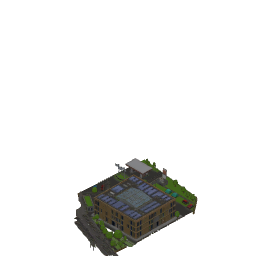
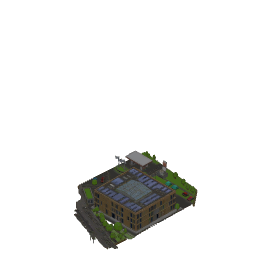
Add SDU Kolding building and complete erhvervsakademiet with all 4 directions

Changed region(s): [[0.2812, 0.5938, 0.7812, 1.0]]

diff --git a/lib/city/buildings.ts b/lib/city/buildings.ts
@@ -133,6 +133,22 @@ export const BUILDINGS: Record<string, BuildingDefinition> = {
     interactable: false,
     supportsRotation: true,
   },
+  "sdu-kolding": {
+    id: "sdu-kolding",
+    name: "SDU Kolding",
+    category: "portfolio",
+    footprint: { width: 3, height: 3 },
+    sprites: {
+      south: "/game/pogicity/Building/landmark/SDU kolding_south.png",
+      north: "/game/pogicity/Building/landmark/SDU kolding_north.png",
+      east: "/game/pogicity/Building/landmark/SDU kolding_east.png",
+      west: "/game/pogicity/Building/landmark/SDU kolding_west.png",
+    },
+    icon: "🎓",
+    description: "SDU Kolding",
+    interactable: false,
+    supportsRotation: true,
+  },
   "business-academy": {
     id: "business-academy",
     name: "Business Academy Aarhus",
@@ -156,14 +172,14 @@ export const BUILDINGS: Record<string, BuildingDefinition> = {
     footprint: { width: 4, height: 3 },
     sprites: {
       south: "/game/pogicity/Building/landmark/erhvervsakademiet _south.png",
-      north: "/game/pogicity/Building/landmark/erhvervsakademiet _south.png",
-      east: "/game/pogicity/Building/landmark/erhvervsakademiet _south.png",
-      west: "/game/pogicity/Building/landmark/erhvervsakademiet _south.png",
+      north: "/game/pogicity/Building/landmark/erhvervsakademiet _north.png",
+      east: "/game/pogicity/Building/landmark/erhvervsakademiet _east.png",
+      west: "/game/pogicity/Building/landmark/erhvervsakademiet _west.png",
     },
     icon: "🏫",
     description: "Erhvervsakademiet",
     interactable: false,
-    supportsRotation: false,
+    supportsRotation: true,
   },
   "dokk1-library": {
     id: "dokk1-library",
